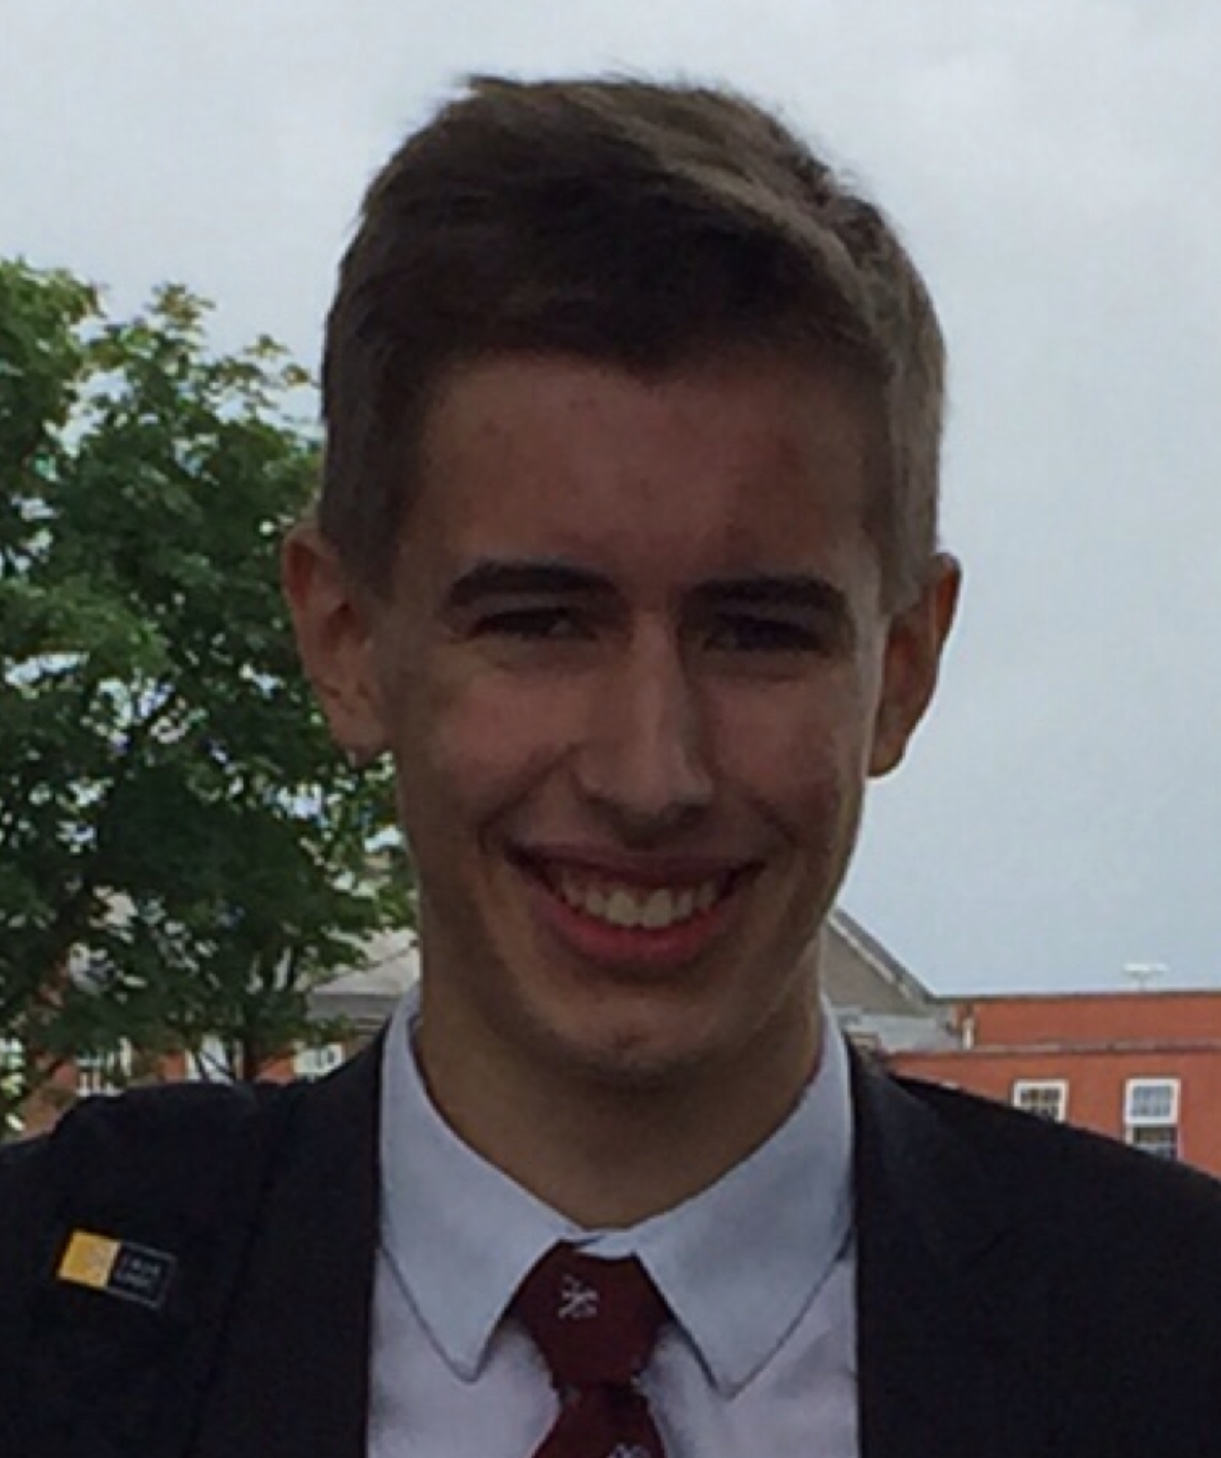
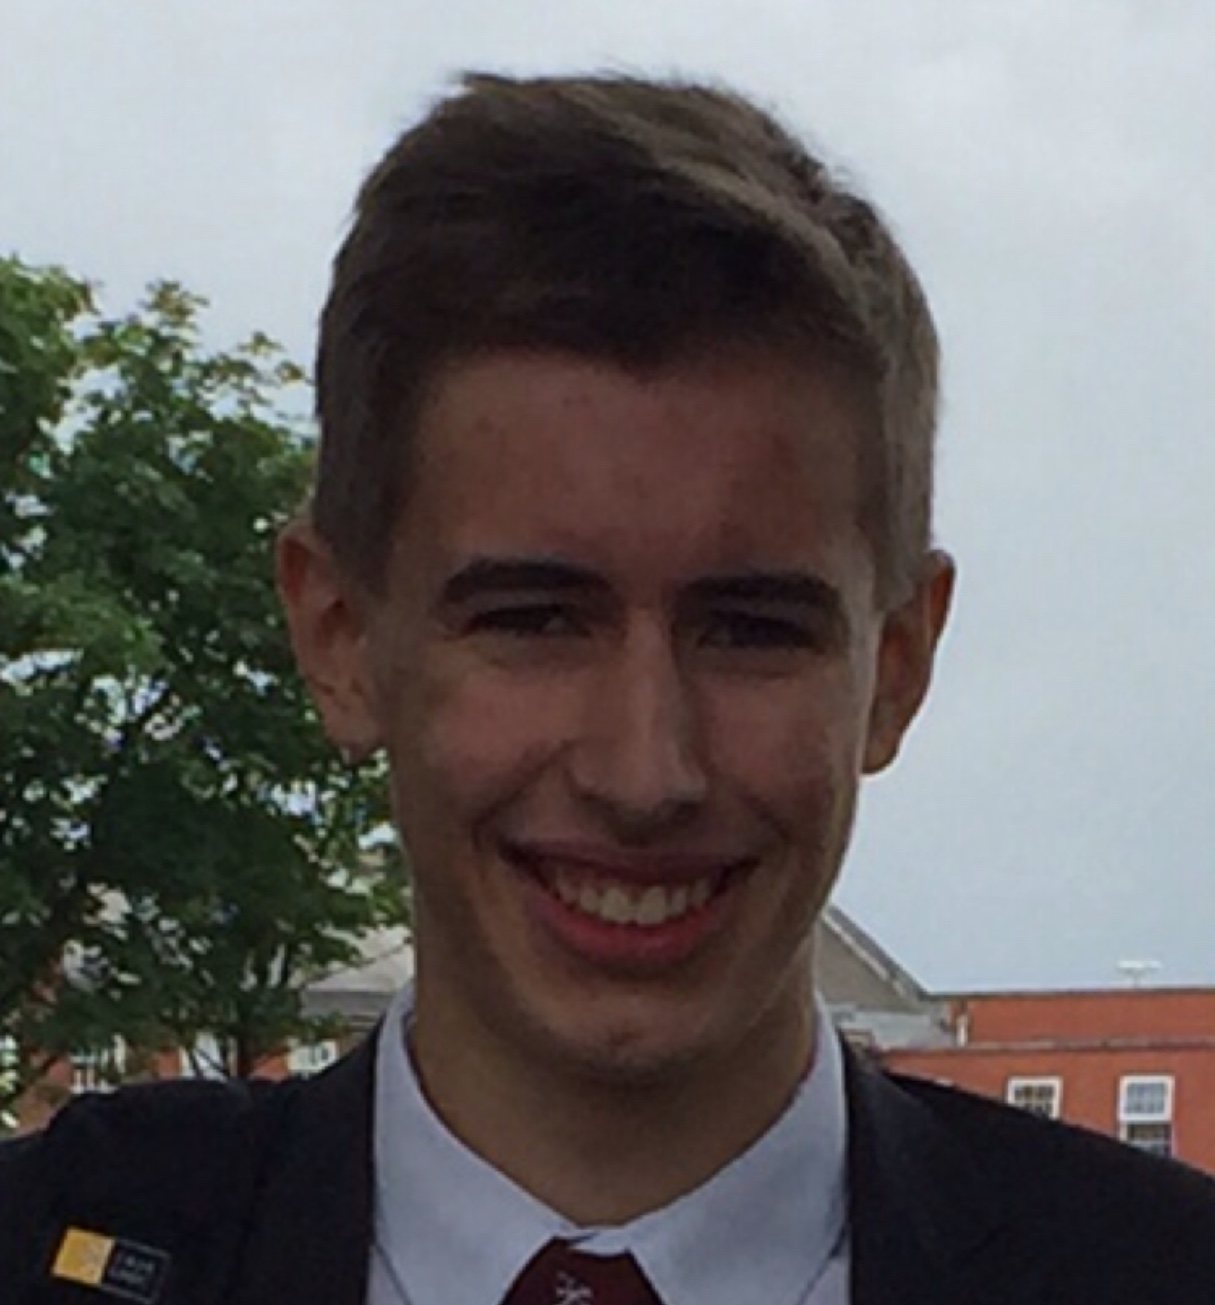
Changes to header

diff --git a/css/freelancer.css b/css/freelancer.css
@@ -94,17 +94,17 @@ header {
   text-align: center;
   background:
     linear-gradient(
-      rgba(80, 80, 80, 0.82),
-      rgba(80, 80, 80, 0.82)
+      rgba(70, 70, 70, 0.75),
+      rgba(70, 70, 70, 0.75)
     ),
     no-repeat center center url(../img/github/coding_sm.jpeg);
-
 
   color: white;
   webkit-background-size: cover;
   -moz-background-size: cover;
   -o-background-size: cover;
   background-size: cover;
+    
 
   margin-bottom: 0px;
   padding: 0px;
@@ -133,11 +133,12 @@ header .container {
 }
 .profile-pic {
   box-shadow: 0 4px 8px 0 rgba(0, 0, 0, 0.9), 0 2px 20px 0 rgba(0, 0, 0, 0.5);
-  filter: brightness(125%);
+  filter: brightness(135%);
 
   display: block;
   margin: 0 auto;
   margin-bottom: 15px;
+    margin-top: -50px;
   width: 220px;
   height: 220px;
   border-radius: 50%;
@@ -148,8 +149,15 @@ header .container {
   opacity: 0.9;
 
 }
+#skills {
+    background-color: white;
+    color: black;
+}
 .about-me-text {
   font-size: 14pt;
+}
+#about {
+  background: rgba(0, 85, 128, 0.6);
 }
 .profile-pic-about {
   box-shadow: 0 2px 20px 0 rgba(0, 0, 0, 0.9), 0 2px 20px 0 rgba(0, 0, 0, 0.5);
@@ -187,9 +195,8 @@ header .intro-text .skills {
 }
 @media (min-width: 768px) {
   header .container {
-    padding-top: 150px;
-    padding-bottom: 300px;
-    height: 100vh;
+    padding-top: 200px;
+    padding-bottom: 200px;
   }
   header .intro-text .name {
     font-size: 3.75em;
@@ -341,7 +348,7 @@ header .intro-text .skills {
 .navbar-fixed-top .navbar-collapse a:hover:before {
   visibility: visible;
   -webkit-transform: scaleX(1);
-  transform: scaleX(1);
+  transform: scaleX(0.75);
 }
 @media (min-width: 768px) {
   .navbar-custom {
@@ -363,21 +370,59 @@ header .intro-text .skills {
     font-size: 1.5em;
   }
 }
+@media (max-width: 991px) {
+    .navbar-header {
+        float: none;
+    }
+    .navbar-toggle {
+        display: block;
+    }
+    .navbar-collapse {
+        border-top: 1px solid transparent;
+        box-shadow: inset 0 1px 0 rgba(255,255,255,0.1);
+    }
+    .navbar-collapse.collapse {
+        display: none!important;
+    }
+    .navbar-nav {
+        float: none!important;
+        margin: 7.5px -15px;
+    }
+    .navbar-nav>li {
+        float: none;
+    }
+    .navbar-nav>li>a {
+        padding-top: 10px;
+        padding-bottom: 10px;
+    }
+    .navbar-text {
+        float: none;
+        margin: 15px 0;
+    }
+    /* since 3.1.0 */
+    .navbar-collapse.collapse.in { 
+        display: block!important;
+    }
+    .collapsing {
+        overflow: hidden!important;
+    }
+}
 #downBtn {
     width: 75px;
     height: 75px;
-    background-color: #ffd480;
+    background-color: white;
     border-radius: 50%;
     margin: 0 auto;
     margin-top: 40px;
     line-height: 75px;
-    color: #004280;
+    color: #18BC9C;
 }
 #downBtn.hovered {
   background-color: #18BC9C !important;
   color: white;
   width: 80px;
   transition: background-color 200ms linear, color 100ms linear, width 100ms linear;
+    font-size: 11pt;
 }
 #downBtn.removed {
   transition: background-color 200ms linear, color 100ms linear, width 100ms linear;
@@ -392,10 +437,6 @@ section h2 {
 section.success {
   background: #6da7af;
   color: white;
-}
-#skills {
-  background: white;
-  color: black;
 }
 #education {
   background: #356600;
@@ -721,4 +762,5 @@ fieldset[disabled] .btn-success.active {
 }
 div#maincontent {
   outline: none;
+    
 }

diff --git a/index.html b/index.html
@@ -41,7 +41,7 @@
 <body id="page-top" class="index">
 
     <!-- Navigation -->
-    <nav id="mainNav" class="navbar navbar-default navbar-fixed-top navbar-custom">
+    <nav id="mainNav" class="navbar navbar-default navbar-fixed-top navbar-custom navbar-toggleable-md">
         <div class="container">
             <!-- Brand and toggle get grouped for better mobile display -->
             <div class="navbar-header page-scroll">
@@ -496,6 +496,7 @@
                 </ul>
                 <p>University: Lancaster University, 2016-Present</p>
             </div>
+        </div>
     </section>
 
     <!-- Footer -->
